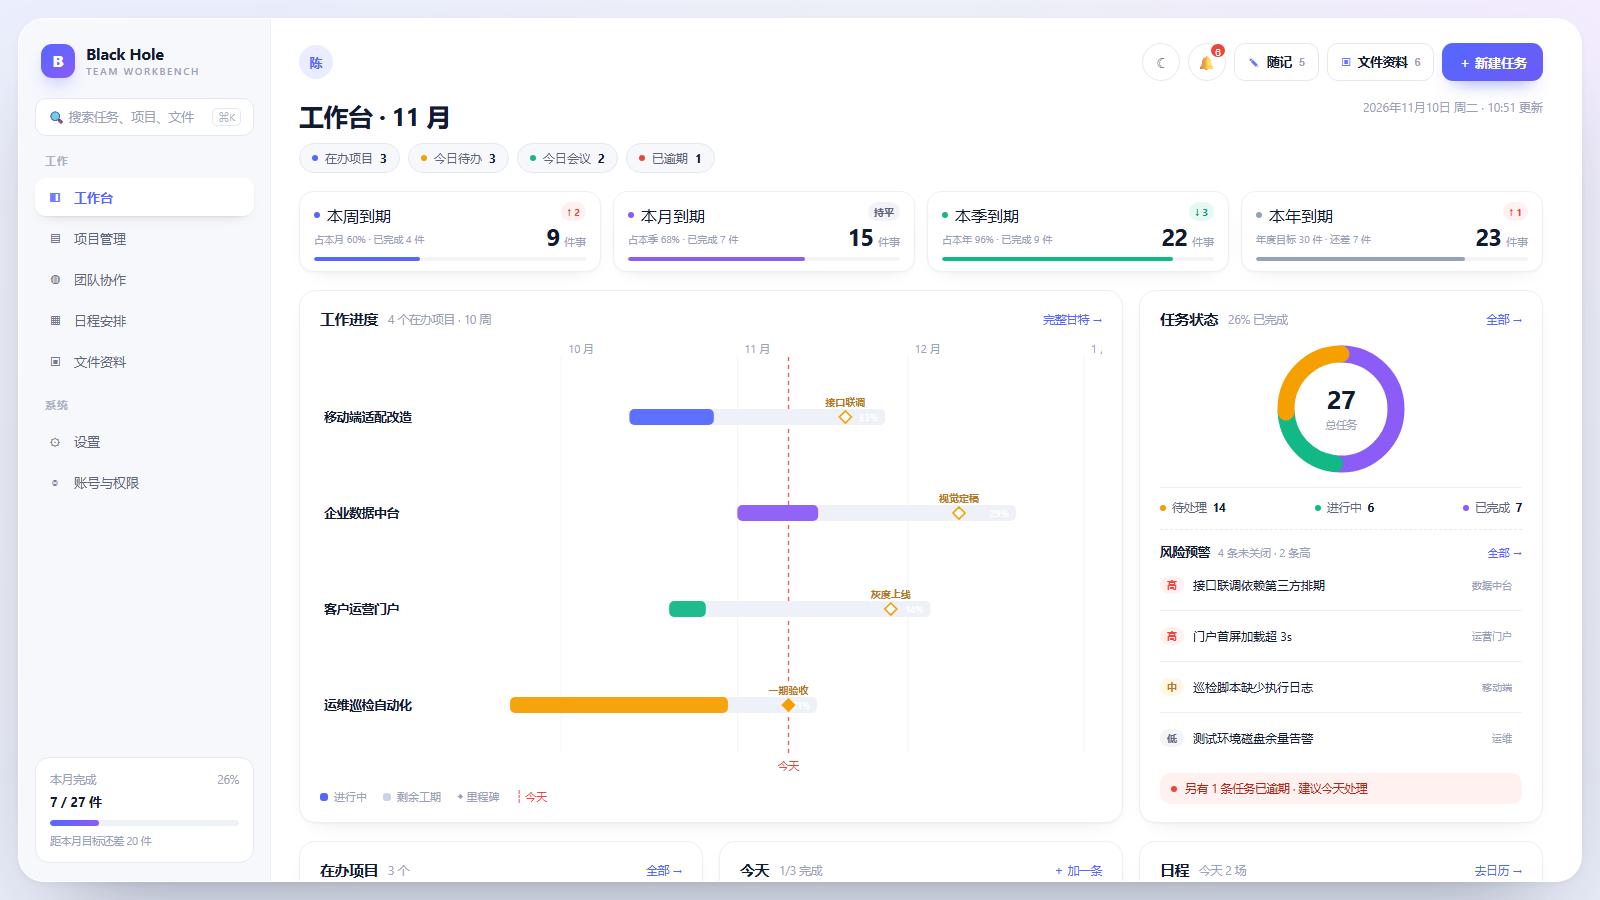
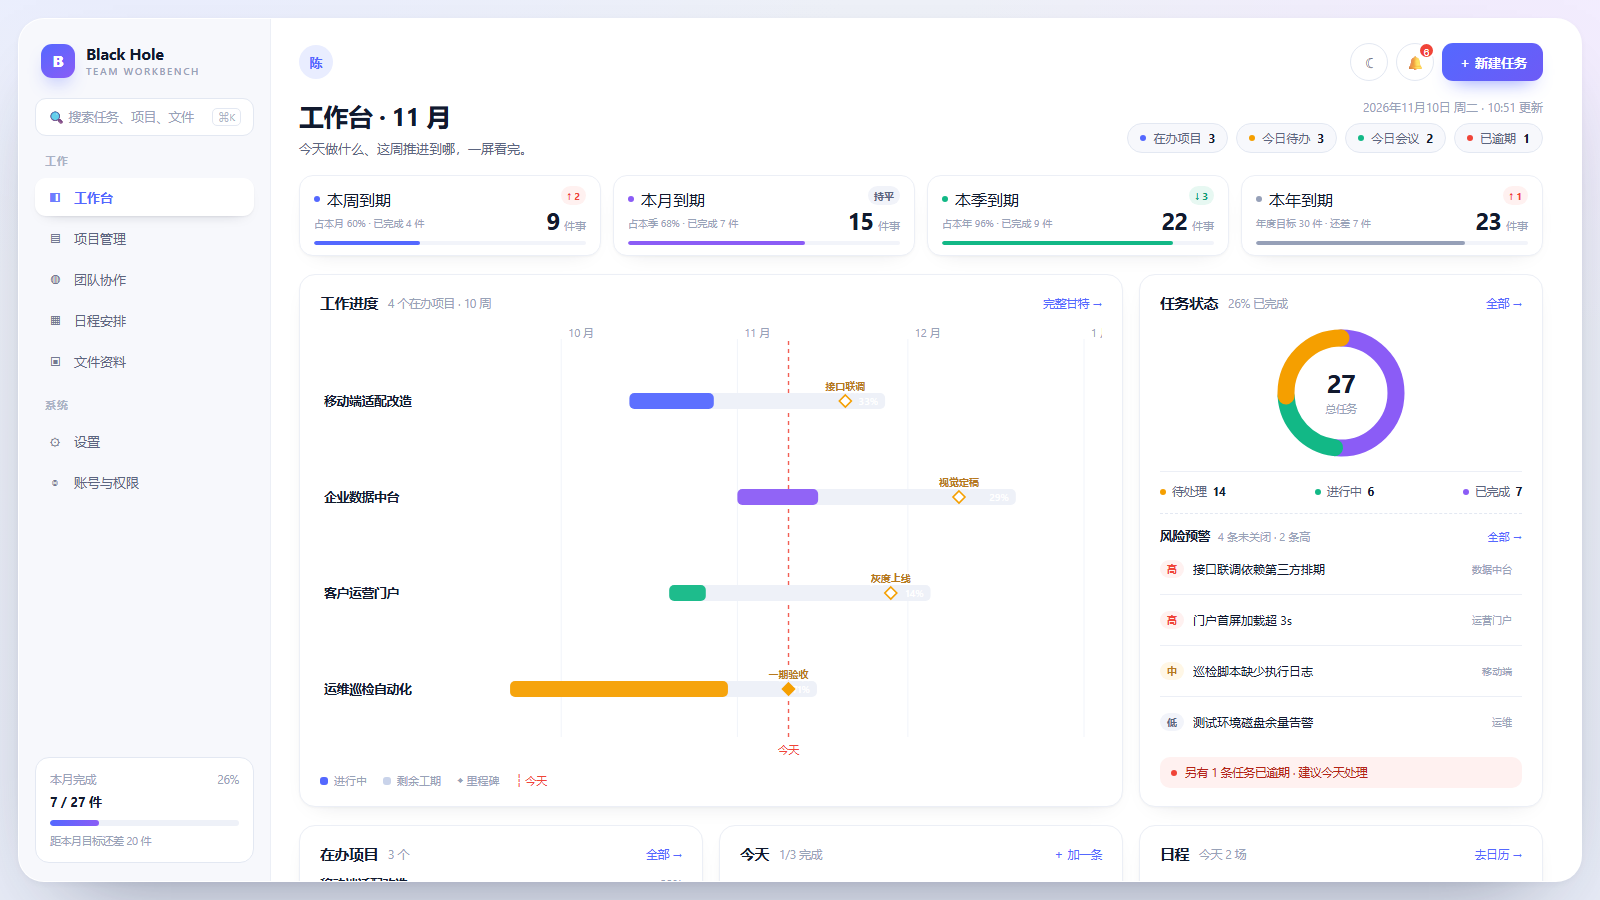
Revert "docs(demo): 四个胶囊移到标题下方，随记/文件资料迁到顶栏"
This reverts commit 0c0be9323ab1491e98d53598b8832e4bc1174550.

diff --git a/docs/demo/workbench-demo.html b/docs/demo/workbench-demo.html
@@ -70,20 +70,14 @@
   .tool-btn{width:38px;height:38px;border-radius:50%;border:1px solid var(--line-2);background:#fff;display:grid;place-items:center;font-size:14px;color:var(--text-2);position:relative;cursor:pointer}
   .tool-btn:hover{border-color:#cfd8ee;color:var(--brand)}
   .dot-badge{position:absolute;top:-2px;right:-2px;min-width:17px;height:17px;border-radius:99px;background:var(--red);color:#fff;font-size:10px;line-height:17px;text-align:center;padding:0 4px;border:2px solid #fff}
-  .btn-ghost{display:inline-flex;align-items:center;gap:7px;height:38px;padding:0 13px;border-radius:11px;border:1px solid var(--line-2);
-    background:#fff;color:var(--text);font-size:12.5px;font-weight:550;cursor:pointer;transition:.15s}
-  .btn-ghost:hover{border-color:#c7d2ff;color:var(--brand);box-shadow:0 6px 16px -12px rgba(84,104,255,.6)}
-  .btn-ghost .gi{font-size:12px;color:var(--brand);opacity:.9}
-  .btn-ghost .gn{font-size:10.5px;color:var(--muted);font-weight:700}
   .btn-primary{height:38px;padding:0 16px;border-radius:11px;border:0;background:linear-gradient(140deg,#5468ff,#6d5bf6);color:#fff;font-size:13px;font-weight:600;cursor:pointer;box-shadow:0 10px 20px -12px rgba(84,104,255,.9)}
 
   .page-head{display:flex;align-items:flex-start;gap:16px}
-  .page-head-main{display:flex;flex-direction:column;gap:10px;min-width:0}
   .page-head h2{margin:0;font-size:25px;font-weight:750;letter-spacing:-.5px}
-  .page-head .chips{display:flex;gap:8px;flex-wrap:wrap}
+  .page-head p{margin:7px 0 0;font-size:13px;color:var(--text-2)}
   .head-right{margin-left:auto;text-align:right}
   .head-right .date{font-size:12px;color:var(--muted)}
-  
+  .head-right .chips{display:flex;gap:8px;justify-content:flex-end;margin-top:8px}
   .chip{display:inline-flex;align-items:center;gap:7px;height:30px;padding:0 12px;border-radius:99px;background:#f7f8fc;border:1px solid var(--line-2);font-size:12px;color:var(--text-2)}
   .chip b{color:var(--text);font-weight:700}
   .sp{width:6px;height:6px;border-radius:50%}
@@ -154,7 +148,7 @@
 
   /* 在办项目（含随记/文件入口） */
   .proj-card{grid-column:span 4;display:flex;flex-direction:column}
-  .pj-list{max-height:206px}
+  .pj-list{max-height:168px}
   .pj{display:grid;grid-template-columns:minmax(0,1fr) auto;gap:3px 10px;padding:10px 0;align-items:center}
   .pj + .pj{border-top:1px solid var(--line)}
   .pj .nm{font-size:12.5px;font-weight:560;overflow:hidden;text-overflow:ellipsis;white-space:nowrap}
@@ -303,24 +297,23 @@
       <div class="top-tools">
         <button class="tool-btn" title="主题">☾</button>
         <button class="tool-btn" title="通知">🔔<span class="dot-badge">6</span></button>
-        <button class="btn-ghost" id="openNotesTop"><span class="gi">✎</span>随记<span class="gn">5</span></button>
-        <button class="btn-ghost" onclick="alert('跳转到文件资料页（demo 占位）')"><span class="gi">▣</span>文件资料<span class="gn">6</span></button>
         <button class="btn-primary">＋ 新建任务</button>
       </div>
     </div>
 
     <div class="page-head">
-      <div class="page-head-main">
+      <div>
         <h2>工作台 · 11 月</h2>
+        <p>今天做什么、这周推进到哪，一屏看完。</p>
+      </div>
+      <div class="head-right">
+        <div class="date">2026年11月10日 周二 · 10:51 更新</div>
         <div class="chips">
           <span class="chip"><i class="sp" style="background:#5468ff"></i>在办项目 <b>3</b></span>
           <span class="chip"><i class="sp" style="background:#f59f00"></i>今日待办 <b>3</b></span>
           <span class="chip"><i class="sp" style="background:#12b886"></i>今日会议 <b>2</b></span>
           <span class="chip"><i class="sp" style="background:#f04438"></i>已逾期 <b>1</b></span>
         </div>
-      </div>
-      <div class="head-right">
-        <div class="date">2026年11月10日 周二 · 10:51 更新</div>
       </div>
     </div>
 
@@ -429,6 +422,14 @@
           <div class="pj"><span class="nm">移动端适配改造</span><span class="pc">33%</span><div class="bar"><i style="width:33%;background:#5468ff"></i></div><span class="due">截止 11-27 · 13 个任务</span></div>
           <div class="pj"><span class="nm">企业数据中台</span><span class="pc">29%</span><div class="bar"><i style="width:29%;background:#8b5cf6"></i></div><span class="due">截止 2027-02-26 · 9 个任务</span></div>
           <div class="pj"><span class="nm">客户运营门户</span><span class="pc">14%</span><div class="bar"><i style="width:14%;background:#12b886"></i></div><span class="due">截止 12-18 · 5 个任务</span></div>
+        </div>
+        <div class="quick">
+          <button class="qbtn" id="openNotes">
+            <span class="ic" style="background:#fff7e6;color:#f59f00">✎</span>随记<span class="n">5</span>
+          </button>
+          <button class="qbtn" onclick="alert('跳转到文件资料页（demo 占位）')">
+            <span class="ic" style="background:#eef1ff;color:#5468ff">▣</span>文件资料<span class="n">6</span>
+          </button>
         </div>
       </div>
 
@@ -630,11 +631,7 @@
 
 /* ---------- 便签栈 ---------- */
 const overlay = document.getElementById('notesOverlay');
-// 随记入口：卡片里的按钮已迁到顶栏，这里两个都挂（缺一个也不报错）
-['openNotes', 'openNotesTop'].forEach(id => {
-  const btn = document.getElementById(id);
-  if (btn) btn.addEventListener('click', () => overlay.classList.add('on'));
-});
+document.getElementById('openNotes').addEventListener('click', () => overlay.classList.add('on'));
 document.getElementById('closeNotes').addEventListener('click', () => overlay.classList.remove('on'));
 overlay.addEventListener('click', e => { if (e.target === overlay) overlay.classList.remove('on'); });
 
